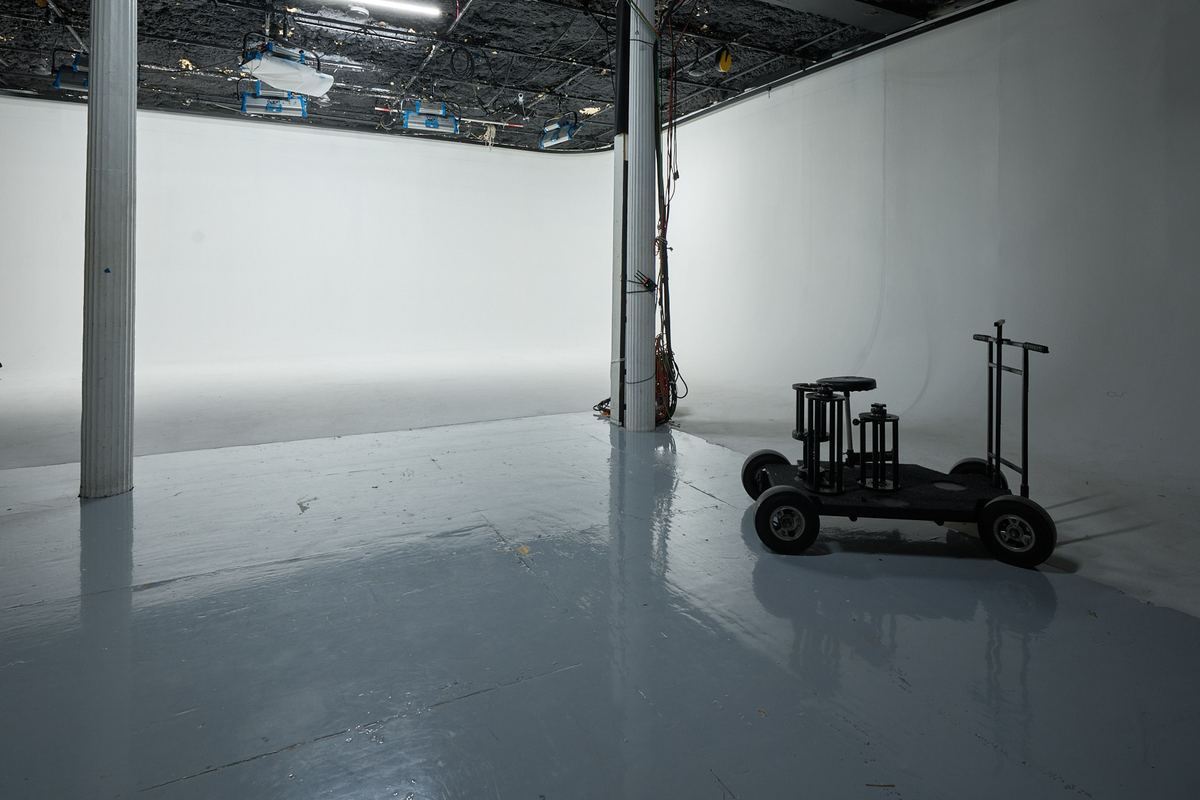
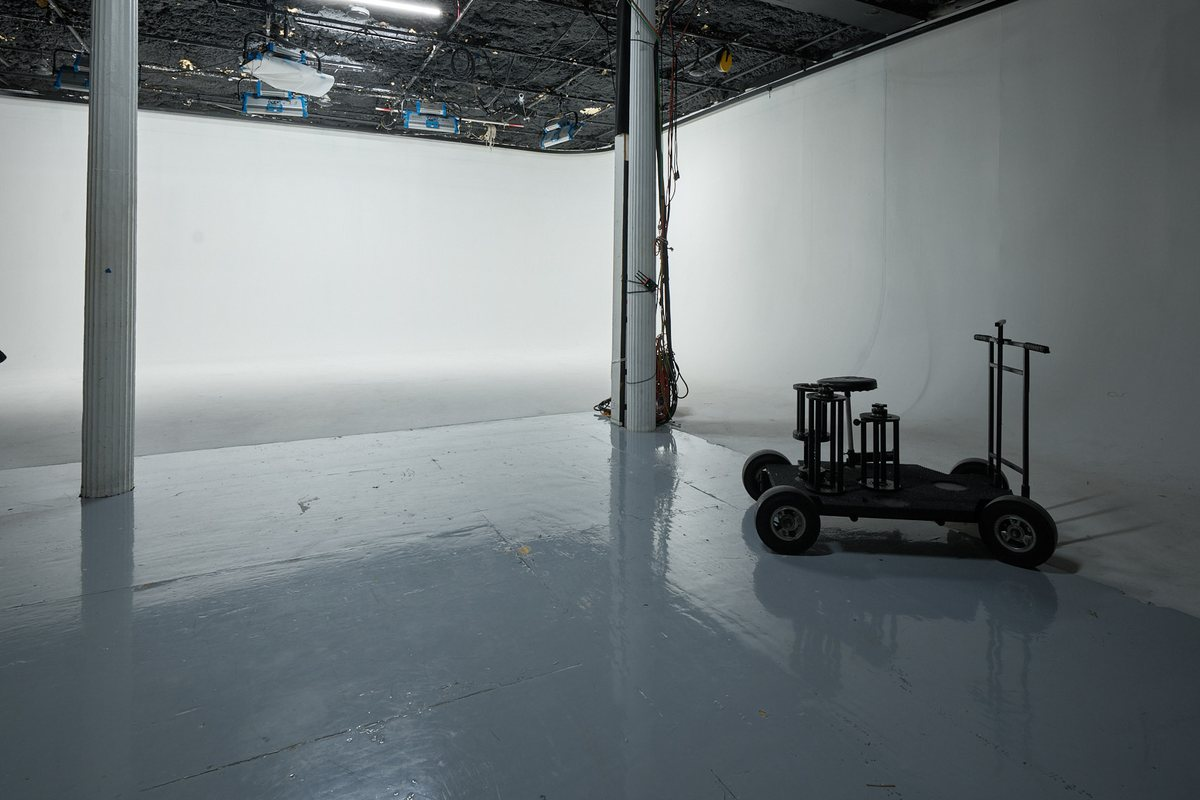
stage-rental: Studio 1 photo + specs per Gab 11/2

diff --git a/stage-rental/index.html b/stage-rental/index.html
@@ -333,15 +333,15 @@ if (location.hostname === 'lp.mcmcreativestudios.com') {
         </article>
 
         <article class="card">
-          <div class="card-img"><img src="assets/img/studio-1-35x45-cyc-700.jpg" srcset="assets/img/studio-1-35x45-cyc-700.jpg 700w, assets/img/studio-1-35x45-cyc-1200.jpg 1200w" sizes="(min-width:1024px) 33vw, (min-width:760px) 50vw, 100vw" alt="Studio 1 35' x 45' curved-corner cyc, empty" width="1200" height="800" loading="lazy" decoding="async"></div>
+          <div class="card-img"><img src="assets/img/studio-1-35x45-cyc-700.jpg" srcset="assets/img/studio-1-35x45-cyc-700.jpg 700w, assets/img/studio-1-35x45-cyc-1200.jpg 1200w" sizes="(min-width:1024px) 33vw, (min-width:760px) 50vw, 100vw" alt="Studio 1 35' x 45' cyc, empty" width="1200" height="800" loading="lazy" decoding="async"></div>
           <div class="card-body">
             <p class="tag">Studio 1</p>
             <h3 class="display">35' x 45' Cyc</h3>
             <ul class="specs">
-              <li>45' x 35' curved-corner infinity cyc, 14' high</li>
-              <li>Soundproof and climate controlled</li>
-              <li>100 amp 3 phase camlock drop plus 80 amp 3 phase camlock drop</li>
-              <li>Client lounge, prep kitchen and makeup table</li>
+              <li>35' x 45' cyc</li>
+              <li>Located in Union Square</li>
+              <li>Private client lounge</li>
+              <li>13' high ceilings</li>
             </ul>
             <button class="btn btn-ghost" type="button" data-stage="35x45-cyc-studio-1">Check availability</button>
           </div>
